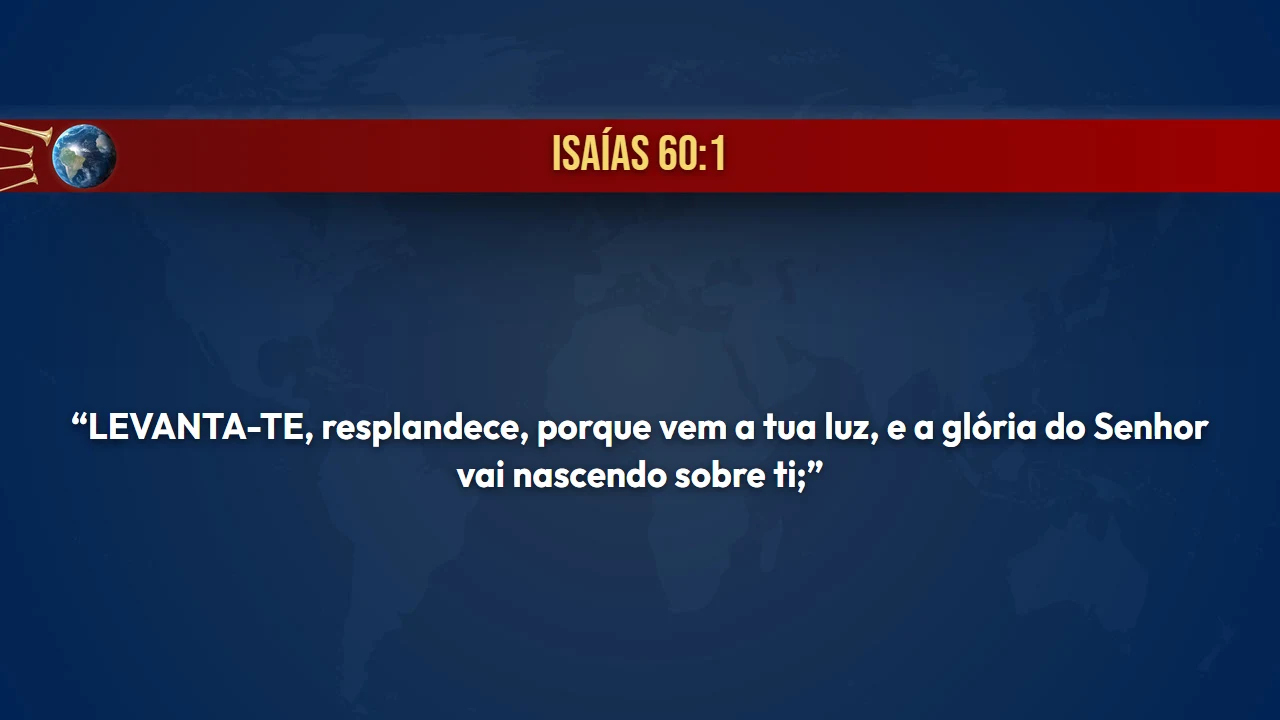
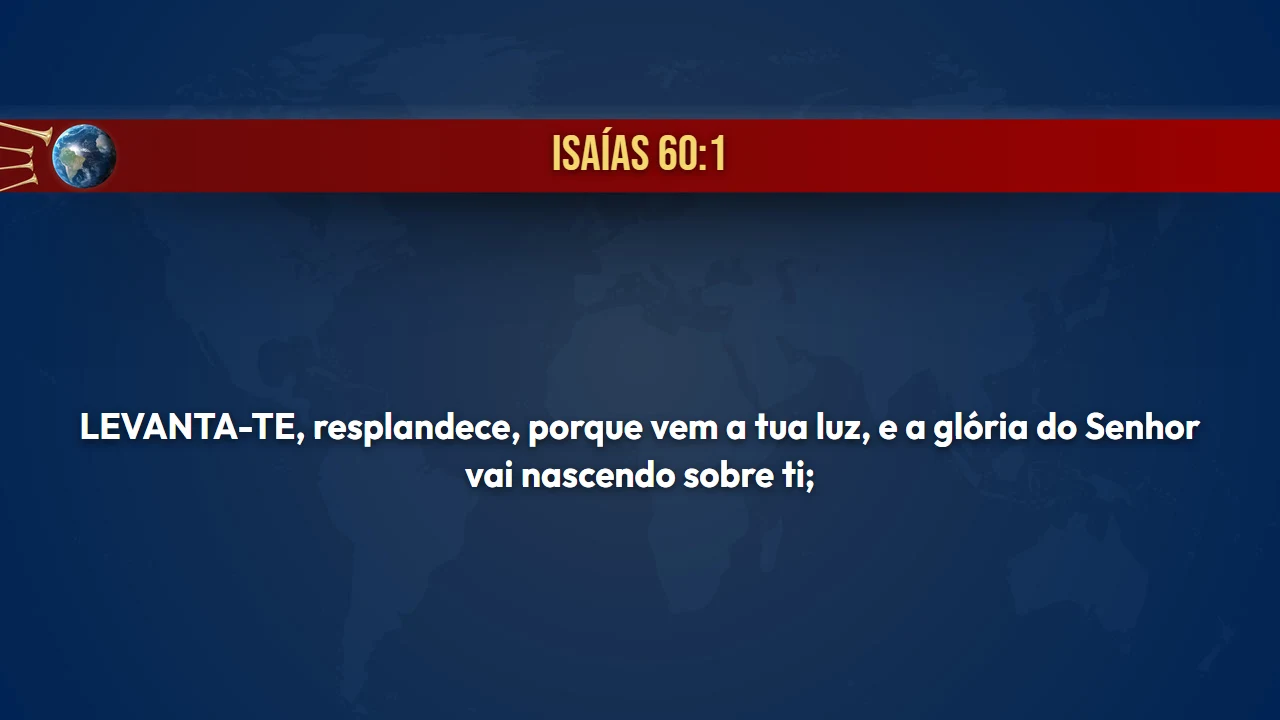
das CIAS (não dos), site alinhado no celular e o versículo sem aspas
- "das CIAS" em todo o projeto: site, programa, instalador, documentação.
  O Samuel corrigiu — é o artigo certo, e estava errado em 11 arquivos.
- A linha entre as seções não vai mais de ponta a ponta da tela: respeita a
  mesma margem do texto, e ganhou respiro para não colar no quadro de cima.
- No celular os dois cliques do aviso do Windows descem um sob o outro, com
  a seta apontando para baixo — a seta ficava pendurada no fim da linha.
- Os passos 1-2-3 com número menor e texto mais perto da margem: a coluna
  agora acompanha o quadro do aviso, logo abaixo.
- Um botão principal e, embaixo, um discreto e comprido: "Ver as outras
  versões". Clicar nele DESLIZA até a comparação, não teleporta.
- Foto do celular refeita inteira (as abas Cifra e os botões + apareciam
  cortados) e com o louvor no ar de verdade na prévia.
- Foto do versículo REFEITA SEM ASPAS: o Sistema nunca pôs aspas — as aspas
  eram invenção da foto. O Samuel avisou que não há necessidade delas.

Changed region(s): [[0.0625, 0.55, 0.9375, 0.7028]]

diff --git a/docs/index.html b/docs/index.html
@@ -37,6 +37,9 @@
 :root[data-theme="light"]{--papel:#f4f6fa;--texto:#0e1725;--suave:#5a6a82;--borda:#dce3ee;--ouro:#c08a1e}
 
 *{margin:0;padding:0;box-sizing:border-box}
+/* clicar em "ver as outras versoes" DESLIZA ate la, nao teleporta.
+   scroll-padding: a secao nao encosta no topo da tela ao chegar */
+html{scroll-behavior:smooth;scroll-padding-top:18px}
 body{background:var(--papel);color:var(--texto);font-family:'Outfit',system-ui,sans-serif;
      font-weight:400;line-height:1.65;-webkit-font-smoothing:antialiased}
 /* height:auto e' o que impede a foto de esticar no celular: sem ele a largura
@@ -59,7 +62,9 @@ h1 em{color:var(--ouro-claro);font-style:normal}
 .tela-foto{border-radius:11px;overflow:hidden;border:1px solid #24344f;
            box-shadow:0 22px 54px #0006}
 
-.baixar{display:flex;flex-wrap:wrap;gap:13px;margin-top:26px}
+/* um botao principal e, embaixo dele, um discreto e comprido — nao dois
+   botoes disputando a atencao de quem chegou para baixar */
+.baixar{display:flex;flex-direction:column;gap:10px;margin-top:26px;max-width:430px}
 .bt{display:flex;flex-direction:column;gap:2px;text-decoration:none;border-radius:11px;
     padding:15px 26px;transition:transform .14s,box-shadow .14s;border:1px solid transparent}
 .bt:hover{transform:translateY(-2px);box-shadow:0 12px 26px #0005}
@@ -67,12 +72,21 @@ h1 em{color:var(--ouro-claro);font-style:normal}
 .bt small{font-size:12.5px;opacity:.82}
 .bt.forte{background:var(--verde);color:#fff}
 .bt.forte:hover{background:#249058}
-.bt.leve{background:#16233a;color:#dce6f5;border-color:#2b3c58}
-.bt.leve:hover{background:#1d2c47}
+.bt-menor{display:block;text-align:center;text-decoration:none;border-radius:9px;
+  padding:10px 16px;font-size:14px;color:#a8bcdc;border:1px solid #2b3c58;
+  background:transparent;transition:background .14s,color .14s}
+.bt-menor:hover{background:#16233a;color:#dce6f5}
 
 /* ---------- o resto ---------- */
 section{padding:56px 0}
-section+section{border-top:1px solid var(--borda)}
+/* a linha entre as secoes NAO vai de ponta a ponta da tela: ela respeita a
+   mesma margem do texto. Encostada nas bordas, e ainda colada embaixo do
+   quadro anterior, dava aquela sensacao de desalinhado no celular. */
+section+section{position:relative}
+section+section::before{content:'';position:absolute;top:0;left:22px;right:22px;
+  height:1px;background:var(--borda)}
+@media(min-width:1124px){section+section::before{left:calc((100% - 1080px)/2 + 22px);
+  right:calc((100% - 1080px)/2 + 22px)}}
 h2{font-family:'Bebas',sans-serif;font-size:32px;letter-spacing:1px;margin-bottom:8px;
    color:var(--texto)}
 .linha-ouro{width:52px;height:3px;background:var(--ouro);border-radius:2px;margin-bottom:24px}
@@ -118,6 +132,12 @@ ol.passos li::before{content:counter(p);position:absolute;left:0;top:-1px;width:
   border-radius:50%;background:var(--ouro);color:#0b1526;font-weight:700;font-size:15px;
   display:flex;align-items:center;justify-content:center}
 ol.passos small{display:block;color:var(--suave);font-size:14px;margin-top:2px}
+/* no celular o numero encolhe e o texto chega mais perto da margem — assim a
+   coluna dos passos fica alinhada com o quadro do aviso, logo abaixo */
+@media(max-width:620px){
+  ol.passos li{padding-left:38px}
+  ol.passos li::before{width:26px;height:26px;font-size:13.5px;top:1px}
+}
 
 /* o aviso do Windows apresentado como o que ele e': um quadro do proprio
    Windows, com os DOIS cliques desenhados na ordem */
@@ -135,10 +155,18 @@ ol.passos small{display:block;color:var(--suave);font-size:14px;margin-top:2px}
 .escudo .cab{background:var(--tinta2);color:#fff;padding:13px 19px;font-weight:600;font-size:15px}
 .escudo .corpo{padding:17px 19px;font-size:15px;line-height:1.6;color:var(--texto)}
 .escudo .corpo b{color:var(--ouro)}
-.escudo .passinhos{display:flex;flex-wrap:wrap;gap:9px;margin-top:12px}
+.escudo .passinhos{display:flex;flex-wrap:wrap;gap:9px;margin-top:12px;align-items:center}
 .escudo .passinhos span{border:1px solid var(--borda);border-radius:8px;padding:7px 13px;
         font-size:14px;font-weight:600}
-.escudo .passinhos .seta{border:none;color:var(--suave);align-self:center}
+.escudo .passinhos .seta{border:none;color:var(--suave);align-self:center;padding:0 2px}
+/* no celular os dois cliques nao cabem lado a lado: em vez de deixar a seta
+   pendurada no fim da linha, eles descem um sob o outro e a seta aponta p/ baixo */
+@media(max-width:620px){
+  .escudo .passinhos{flex-direction:column;align-items:flex-start;gap:7px}
+  .escudo .passinhos span{width:100%;text-align:center}
+  .escudo .passinhos .seta{width:auto;align-self:center;transform:rotate(90deg);
+    padding:2px 0;font-size:15px}
+}
 
 .recursos{display:grid;gap:17px;grid-template-columns:repeat(auto-fit,minmax(233px,1fr))}
 .rec{border:1px solid var(--borda);border-radius:11px;padding:18px 19px;background:transparent}
@@ -163,7 +191,7 @@ footer a{color:#a8bcdc}
 footer p{margin-bottom:9px;max-width:70ch}
 footer b{color:#cfe0f5}
 a{color:var(--ouro)}
-@media (prefers-reduced-motion:reduce){*{transition:none!important}}
+@media (prefers-reduced-motion:reduce){*{transition:none!important}html{scroll-behavior:auto}}
 :focus-visible{outline:3px solid var(--ouro);outline-offset:3px;border-radius:6px}
 </style>
 </head>
@@ -181,8 +209,7 @@ a{color:var(--ouro)}
       <div class="baixar">
         <a class="bt forte" href="https://github.com/QuitsQuill88885/sistema-projecao-icm/releases/latest/download/Instalar-o-Sistema-completo.exe">
           <b>Baixar o Sistema completo</b><small>647 MB · com as animações, cifras e melodias · instala sem internet</small></a>
-        <a class="bt leve" href="#versoes">
-          <b>Ver as três versões</b><small>tem um instalador de 17 MB que cabe no WhatsApp</small></a>
+        <a class="bt-menor" href="#versoes">Ver as outras versões</a>
       </div>
     </div>
     <div class="tela-foto">
@@ -208,7 +235,7 @@ a{color:var(--ouro)}
       <ul>
         <li><span class="ok">✓</span>Louvores, Bíblia inteira e fundos</li>
         <li><span class="ok">✓</span>Controle e cifras no celular do músico</li>
-        <li><span class="ok">✓</span>Animações dos CIAS</li>
+        <li><span class="ok">✓</span>Animações das CIAS</li>
         <li><span class="ok">✓</span>Cifras de violão e cadernos de melodia</li>
         <li><span class="ok">✓</span>Instala sem conexão com a internet</li>
         <li><span class="ok">✓</span>Exporta tudo para um pendrive depois</li>
@@ -224,7 +251,7 @@ a{color:var(--ouro)}
       <ul>
         <li><span class="ok">✓</span>Louvores, Bíblia inteira e fundos</li>
         <li><span class="ok">✓</span>Controle no celular do músico</li>
-        <li><span class="nao">✕</span>Animações dos CIAS</li>
+        <li><span class="nao">✕</span>Animações das CIAS</li>
         <li><span class="nao">✕</span>Cifras de violão e cadernos de melodia</li>
         <li class="nota">As duas podem ser trazidas depois: pelo botão
             <b>Completar o Sistema</b>, dentro do próprio programa (com
@@ -243,7 +270,7 @@ a{color:var(--ouro)}
       <ul>
         <li><span class="ok">✓</span>Louvores, Bíblia inteira e fundos</li>
         <li><span class="ok">✓</span>Controle e cifras no celular do músico</li>
-        <li><span class="ok">✓</span>Animações dos CIAS</li>
+        <li><span class="ok">✓</span>Animações das CIAS</li>
         <li><span class="ok">✓</span><span class="tx">Cifras de violão e cadernos de melodia
           <small>na hora de instalar, você escolhe: o completo ou só o essencial</small></span></li>
         <li><span class="nao">✕</span><span class="tx">Instala sem conexão com a internet
@@ -323,7 +350,7 @@ a{color:var(--ouro)}
          aparece no menu do programa, em <b>Configurações → Celular</b>. Da segunda vez
          em diante, o navegador já lembra o caminho.</p>
     </div>
-    <img class="foto-celular" src="img/celular.webp" width="420" height="840"
+    <img class="foto-celular" src="img/celular.webp" width="470" height="1000"
          alt="O controle no celular do músico">
   </div>
 </section>

diff --git a/app.js b/app.js
@@ -162,7 +162,7 @@ function codVers(livro, cap, v) {
 // O mesmo louvor está em várias coletâneas: são 2.459 entradas no catálogo para
 // pouco mais de 1.500 louvores distintos, e a tabela de sugestões repete o mesmo
 // em 15.122 dos 25.806 versículos (Gênesis 1:1 sugeria "DEUS CRIOU OS CÉUS E A
-// TERRA" duas vezes, uma dos CIAS e outra da Antiga). Numa lista de três, isso é
+// TERRA" duas vezes, uma das CIAS e outra da Antiga). Numa lista de três, isso é
 // um terço da tela desperdiçado, e numa roda é "repetir fora de hora".
 //
 // SÃO DUAS CHAVES, porque nenhuma delas sozinha reconhece a cópia.
@@ -171,7 +171,7 @@ function codVers(livro, cap, v) {
 //   Doze letras da primeira linha porque as coletâneas quebram a linha em pontos
 //   diferentes, e comparar a linha inteira separava justamente o que é igual.
 //   pela LETRA — junta o que a coletânea REBATIZOU, e aí o título não serve de
-//   nada: 71 dos CIAS é "JESUS VIU A MULTIDÃO" e 9997 da Antiga é "JESUS VIU A
+//   nada: 71 das CIAS é "JESUS VIU A MULTIDÃO" e 9997 da Antiga é "JESUS VIU A
 //   MULTIDÃO (A MULTIPLICAÇÃO)", mesma letra palavra por palavra; 353 é
 //   "DEIXA-ME CHORAR" e 3371 é "DEIXA-ME CHORAR AOS TEUS PÉS". Só pelo título,
 //   esses pares entravam os dois na mesma volta da roda e o operador via o mesmo
@@ -211,7 +211,7 @@ function carregarHistoricoSug() {
   sugHistPedido = true;
   fetch('/api/historico').then(r => r.json()).then(r => {
     // duas contagens, uma por chave, para a projeção do 9997 contar também para
-    // o 71 dos CIAS — que é o mesmo louvor com outro nome. A chave de título sai
+    // o 71 das CIAS — que é o mesmo louvor com outro nome. A chave de título sai
     // direto do que está gravado; a da letra só o catálogo tem, então o registro
     // é reencontrado pelo louvor que o gerou.
     const porTit = new Map(), porLet = new Map(), porChave = new Map();
@@ -595,7 +595,7 @@ function telasDoLouvor(idx) {
 }
 function louvorProximo() {
   const s = LOUVORES[est.louvorIdx]; if (!s) return;
-  // conta as telas do que está NO AR: o GIF dos CIAS costuma ter menos telas que
+  // conta as telas do que está NO AR: o GIF das CIAS costuma ter menos telas que
   // o texto, e usar a contagem do texto deixaria telas fantasma no fim
   if (est.louvorSlide < telasDoLouvor(est.louvorIdx) - 1) projetarLouvor(est.louvorIdx, est.louvorSlide + 1, false);
   else finalizarLouvor();   // acabou o louvor -> vai pra tela de espera; o PRÓXIMO "Avançar" engata o seguinte
@@ -682,7 +682,7 @@ function pontuarLouvor(s, alvo, palavras) {
 }
 // ---- coletâneas ----------------------------------------------------------
 // O mesmo número existe em coletâneas diferentes com letras diferentes: o 60 da
-// Coletânea 2018 e o 60 dos CIAS são louvores distintos. Alguém anuncia só
+// Coletânea 2018 e o 60 das CIAS são louvores distintos. Alguém anuncia só
 // "sessenta" ou "setenta CIAS" e o operador tem segundos para achar o certo.
 // A lista mostra os resultados AGRUPADOS por coletânea, com o nome escrito:
 // ele digita o número e vê os dois, cada um debaixo do seu cabeçalho.
@@ -751,7 +751,7 @@ function renderListaLouvores(filtro) {
   });
 
   // Agrupar por coletânea resolve a ambiguidade do NÚMERO (o 60 da 2018 e o 60
-  // dos CIAS). Mas em busca por TEXTO o grupo brigaria com a ordem de
+  // das CIAS). Mas em busca por TEXTO o grupo brigaria com a ordem de
   // proximidade — o cabeçalho se repetiria a cada linha. Então: número agrupa,
   // texto vem ranqueado, com a coletânea escrita em cada linha.
   const agrupar = !f || soNumero !== null;
@@ -808,7 +808,7 @@ function selecionarLouvor(i, semProjetar) {
   if (!semProjetar) projetarLouvor(i, 0, false);
   else marcarSlide();
 }
-// ---- recursos extras do louvor (cifra e animação dos CIAS) ----------------
+// ---- recursos extras do louvor (cifra e animação das CIAS) ----------------
 // A animação é importada pelo menu e fica na pasta do usuário; se o operador
 // nunca importou nada, ANIMACOES fica vazio e o botão nem aparece — nada de
 // botão morto no painel.
@@ -1030,13 +1030,13 @@ function fecharCifra() {
   est.modoCifra = false; atualizarExtras();
 }
 
-// Liga/desliga a exibição animada dos CIAS. Ela vem LIGADA: é assim que o louvor
+// Liga/desliga a exibição animada das CIAS. Ela vem LIGADA: é assim que o louvor
 // de criança se apresenta. Desligando, cai no texto normal.
 function alternarAnimacao() {
   est.modoAnim = est.modoAnim === false;      // undefined/true -> false; false -> true
   atualizarExtras();
   if (est.louvorIdx >= 0) projetarLouvor(est.louvorIdx, est.louvorSlide || 0, true);
-  toast(est.modoAnim === false ? 'Exibindo o texto deste louvor.' : 'Exibindo a animação dos CIAS.');
+  toast(est.modoAnim === false ? 'Exibindo o texto deste louvor.' : 'Exibindo a animação das CIAS.');
 }
 
 // Mostra/esconde os botões conforme o louvor que está selecionado agora.
@@ -2179,7 +2179,7 @@ function ligarCompletar() {
     if (r && r.falta) linha.hidden = false;
   }).catch(() => {});
   b.onclick = () => {
-    confirmar('Baixar as animações dos CIAS, as cifras e os cadernos de melodia '
+    confirmar('Baixar as animações das CIAS, as cifras e os cadernos de melodia '
               + '(cerca de <b>590 MB</b>)?<br><br>Precisa de internet. O Sistema '
               + 'continua funcionando normalmente enquanto baixa.', async () => {
       await fetch('/api/conteudo', { method: 'POST', body: '{}' });

diff --git a/index.html b/index.html
@@ -173,7 +173,7 @@
         <button class="ff extra cifra oculto" id="btn-cifra"
                 title="Ver a cifra deste louvor"><span class="ico" data-i="violao"></span> Cifra</button>
         <button class="ff extra cias oculto" id="btn-anim"
-                title="Exibir este louvor com a animação dos CIAS"><span class="ico" data-i="cias"></span> Animação</button>
+                title="Exibir este louvor com a animação das CIAS"><span class="ico" data-i="cias"></span> Animação</button>
       </div>
       <div class="fila-tit-row">
         <h3 class="fila-tit">Lista de projeção</h3>
@@ -286,7 +286,7 @@
           <div class="reset-row"><div><b>Apresentação inicial</b><small>Rever como o Sistema funciona e reconfigurar a igreja.</small></div>
             <button class="big-btn" id="btn-rever">Ver de novo</button></div>
           <h3 class="menu-h3">Atualizações</h3>
-          <div class="reset-row" id="linha-completar" hidden><div><b>Completar o Sistema</b><small id="comp-status">Baixa as animações dos CIAS, as cifras e os cadernos de melodia (≈ 590 MB). Este botão só aparece porque elas ainda não estão neste computador.</small></div>
+          <div class="reset-row" id="linha-completar" hidden><div><b>Completar o Sistema</b><small id="comp-status">Baixa as animações das CIAS, as cifras e os cadernos de melodia (≈ 590 MB). Este botão só aparece porque elas ainda não estão neste computador.</small></div>
             <button class="big-btn verde" id="btn-completar">Completar</button></div>
           <div class="reset-row"><div><b>Buscar atualizações</b><small id="atu-status">Procura a versão mais nova na internet. Suas coisas nunca são apagadas, e o conteúdo pesado não baixa de novo.</small></div>
             <button class="big-btn" id="btn-atualizar">Buscar</button></div>

diff --git a/teste_site.html b/teste_site.html
@@ -1,0 +1,22 @@
+<!doctype html><html><head><meta charset="utf-8"><title>fotos do site</title>
+<style>html,body{margin:0;height:100%}#f{position:fixed;inset:0;border:0;width:100vw;height:100vh}</style></head>
+<body><iframe id="f" src="projecao.html"></iframe>
+<script>
+/* Arreio só para refazer as fotos do site (proj_louvor / proj_verso) com a
+   calibração da transmissão. Pode apagar sem dó.
+   SEM ASPAS no versículo: o Sistema projeta o texto como ele é, igual ao
+   Glorifica. As aspas de antes eram invenção da foto, não do programa. */
+const P=new URLSearchParams(location.search);
+const t=P.get('t')||'louvor';
+const amostras={
+  louvor:{modo:'louvor',estilo:'mapa',fundo:'fundos/louvor1_mapa.jpg',
+    titulo:'709 - RESPLANDECE, Ó JERUSALÉM',tam:5.75,linhas:[
+    'RESPLANDECE Ó JERUSALÉM!','PORQUE NASCE SOBRE TI A TUA LUZ.',
+    'JERUSALÉM, ÉS ILUMINADA PELA GLÓRIA','DO SENHOR, AS TUAS RUAS SÃO DE OURO,',
+    'Ó QUANTO ALMEJO NELAS ANDAR.']},
+  verso:{modo:'biblia',estilo:'mapa',fundo:'fundos/biblia_mapa.jpg',ref:'Isaías 60:1',tam:5.55,linhas:[
+    'LEVANTA-TE, resplandece, porque vem a tua luz, e a glória do Senhor vai nascendo sobre ti;']},
+};
+const f=document.getElementById('f');
+f.onload=()=>setTimeout(()=>{f.contentWindow.postMessage(JSON.stringify(amostras[t]),'*');},400);
+</script></body></html>

diff --git a/app.css b/app.css
@@ -89,7 +89,7 @@ main{display:grid;grid-template-columns:1fr 348px;overflow:hidden;min-height:0}
 .item.sel{background:var(--azul2);color:#fff;font-weight:600}
 .item.na-lista{box-shadow:inset 3px 0 0 var(--ouro)}
 /* Cabeçalho de coletânea. O mesmo número existe em coletâneas diferentes com
-   letras diferentes (o 60 da 2018 e o 60 dos CIAS). Buscando "60" o operador vê
+   letras diferentes (o 60 da 2018 e o 60 das CIAS). Buscando "60" o operador vê
    os dois, cada um debaixo do seu nome — não precisa decorar sigla nenhuma. */
 .grupo-col{position:sticky;top:0;z-index:2;padding:4px 12px;font-size:10.5px;font-weight:700;
            letter-spacing:.8px;color:var(--ouro);background:#101d33;border-top:1px solid var(--borda)}

diff --git a/baixador.py b/baixador.py
@@ -43,7 +43,7 @@ DONO = "QuitsQuill88885"
 REPO = "sistema-projecao-icm"
 ARQUIVO = "Instalar-o-Sistema.exe"
 URL = "https://github.com/%s/%s/releases/latest/download/%s" % (DONO, REPO, ARQUIVO)
-# o pacote de conteudo (animacoes dos CIAS, cifras e cadernos de melodia):
+# o pacote de conteudo (animacoes das CIAS, cifras e cadernos de melodia):
 # quem escolhe "completo" baixa este zip tambem, e ele vira a pasta Conteudo
 ARQ_CONTEUDO = "Conteudo.zip"
 URL_CONTEUDO = "https://github.com/%s/%s/releases/latest/download/%s" % (DONO, REPO, ARQ_CONTEUDO)
@@ -116,7 +116,7 @@ def pasta_downloads():
 # As pastas de conteúdo pesado que o instalador NÃO carrega dentro do .exe
 # (juntas passam de 580 MB). Se ESTE computador as tem, a exportação leva
 # junto, numa pasta "Conteudo" ao lado do instalador. Foi a falta disto que
-# fez as animações dos CIAS nunca chegarem à igreja: o pendrive levava só o
+# fez as animações das CIAS nunca chegarem à igreja: o pendrive levava só o
 # programa, e o programa sem a pasta instala calado, sem os botões.
 PASTAS_CONTEUDO = ("animacoes", "cifras", "melodias")
 
@@ -373,7 +373,7 @@ button{font-family:inherit;border:none;cursor:pointer;color:#fff}
     <div class="cartoes">
       <button class="cartao" onclick="escolhido(true)">
         <span class="ic" data-ic="estrela"></span><b>Completo — uns 640 MB para baixar</b>
-        <small>Com as animações dos CIAS, as cifras e os cadernos de melodia.
+        <small>Com as animações das CIAS, as cifras e os cadernos de melodia.
                É o do computador da igreja.</small></button>
       <button class="cartao" onclick="escolhido(false)">
         <span class="ic" data-ic="pena"></span><b>Essencial — 58 MB</b>

diff --git a/sistema.py b/sistema.py
@@ -640,7 +640,7 @@ class Handler(http.server.SimpleHTTPRequestHandler):
         from urllib.parse import unquote
         limpo = unquote(path.split("?", 1)[0].split("#", 1)[0])
         # tudo o que o operador importou mora fora da pasta do app (o .exe é
-        # somente leitura): slides convertidos, animações dos CIAS e as cifras
+        # somente leitura): slides convertidos, animações das CIAS e as cifras
         for prefixo, base in (("/slides_importados/", SAIDA),
                               ("/animacoes/", pasta_usuario("animacoes")),
                               ("/cifras/", pasta_usuario("cifras"))):

diff --git a/instalador.py b/instalador.py
@@ -142,7 +142,7 @@ def copiar_conteudo_extra(progresso=None):
 
     É o que separa a versão completa da enxuta sem existirem dois programas:
     o mesmo instalador, com ou sem a pasta do lado. Dentro dela vão as
-    animações dos CIAS e as cifras, que são pesadas demais para viajar dentro
+    animações das CIAS e as cifras, que são pesadas demais para viajar dentro
     do .exe (juntas passam de 200 MB).
 
         Instalar o Sistema.exe

diff --git a/README.md b/README.md
@@ -19,7 +19,7 @@ da letra — com ou sem acento, com ou sem vírgula. A busca traz primeiro o lou
 cujo **título** bate, e só depois os que citam aquilo no meio da letra.
 
 **Coletâneas convivendo.** O mesmo número existe em coletâneas diferentes com
-letras diferentes: o 60 da Coletânea 2018 e o 60 dos CIAS são louvores distintos.
+letras diferentes: o 60 da Coletânea 2018 e o 60 das CIAS são louvores distintos.
 Procurando por número, o Sistema mostra os dois, cada um debaixo do nome da sua
 coletânea. Não há sigla para decorar.
 
@@ -59,7 +59,7 @@ fundos e seus louvores próprios não são tocados** — eles ficam em
 | Louvores e Bíblia | material da Igreja Cristã Maranata |
 | Fundos de tela | idem |
 | Fonte de projeção | tipografia comercial, licenciada |
-| Animações dos CIAS | pacote oficial da igreja |
+| Animações das CIAS | pacote oficial da igreja |
 | Cifras | coletâneas publicadas pela ICM |
 
 Nada disso é nosso para redistribuir. Quem clonar precisa trazer o próprio

diff --git a/CREDITOS.md b/CREDITOS.md
@@ -59,7 +59,7 @@ máquina e não depende de nada estar presente no Windows.
 |---|---|
 | `dados/louvores.js` | Letras das coletâneas da Igreja Cristã Maranata |
 | `cifras/` | Coletâneas cifradas oficiais |
-| `animacoes/` | Animações dos CIAS |
+| `animacoes/` | Animações das CIAS |
 | `fundos/` | Artes de fundo da igreja |
 
 Material da Igreja Cristã Maranata, usado pela congregação local. Não deve ser
